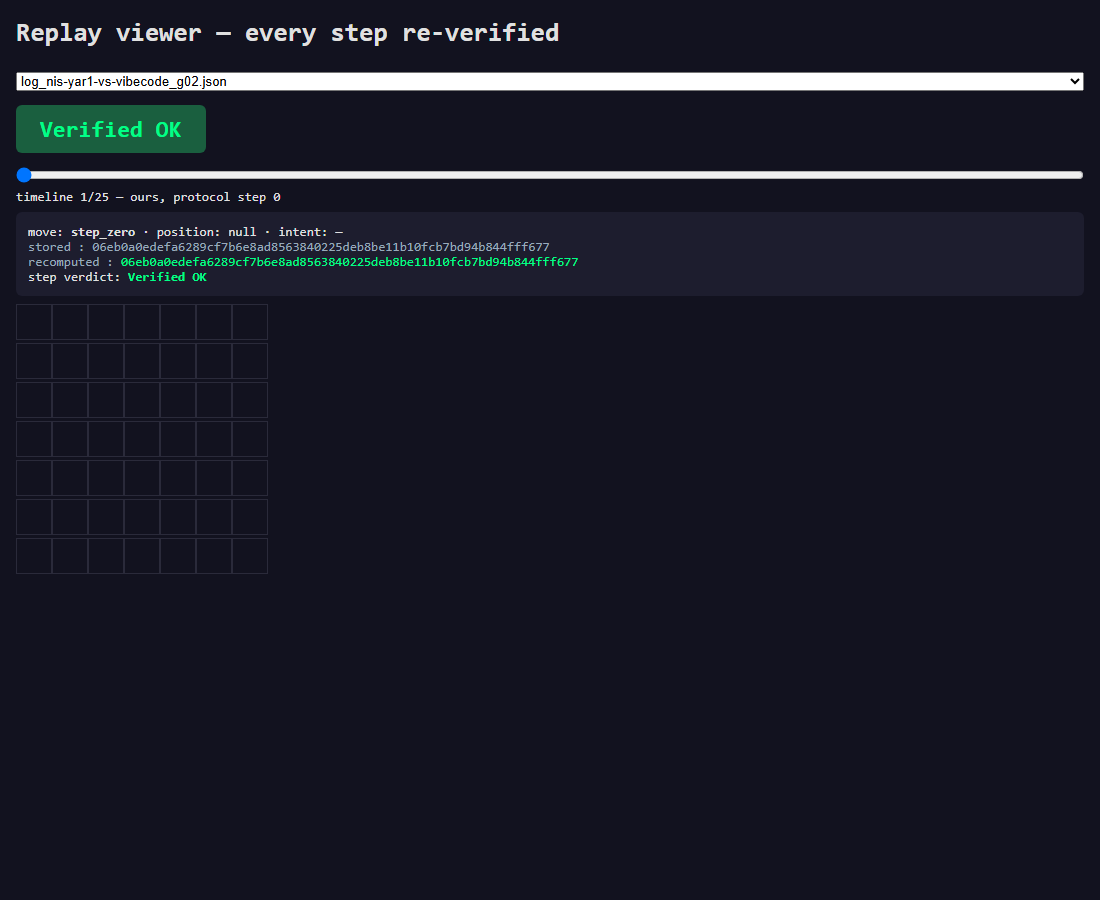
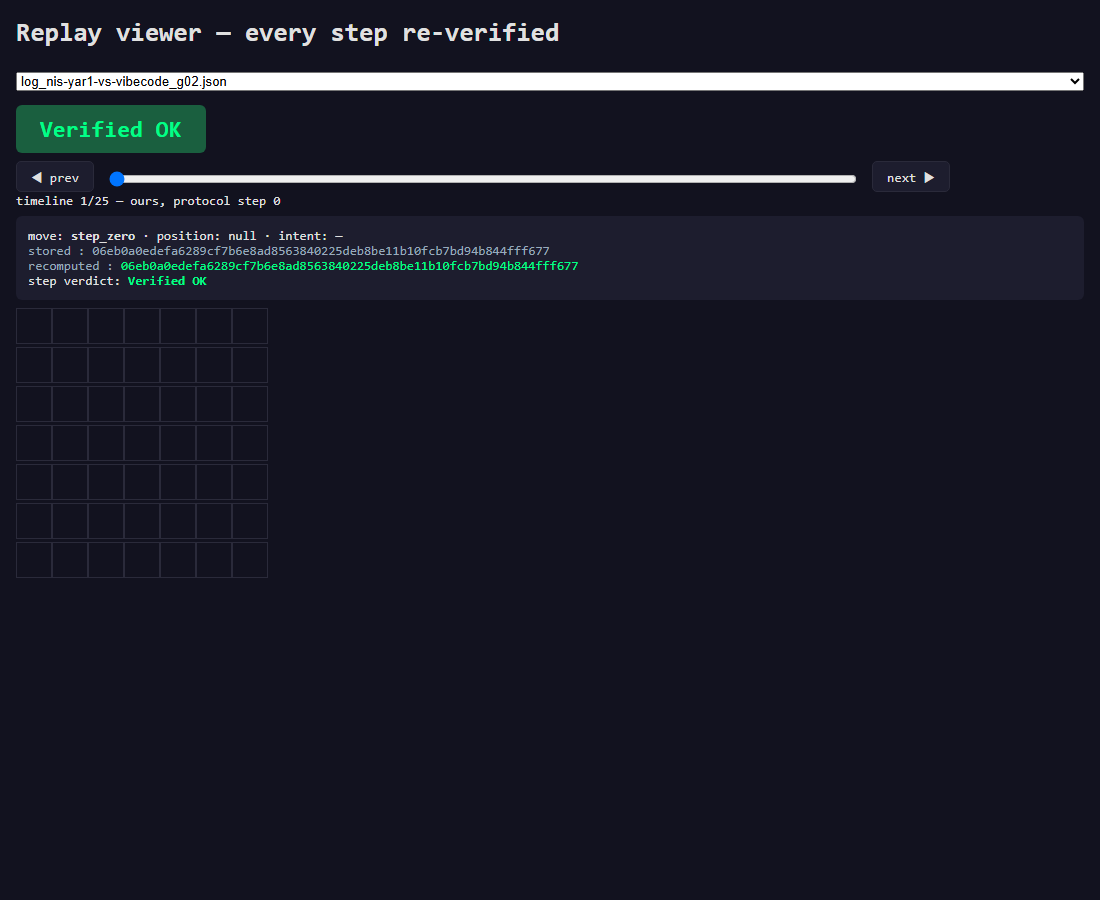
replay: prev/next arrows (buttons + ArrowLeft/ArrowRight) + behavioral GUI tests
User request: step the replay with arrows. The web page gains prev/next
buttons and keyboard ArrowLeft/ArrowRight handlers, both driving the same
bounds-clamped step() over the slider - the arrows can never leave the
timeline. The CLI stepper already had n/p/j.

Tests now cover behavior, not just markers:
- the CLI stepper's real loop (n/n/p/jump/quit) renders every visited position
  and clamps at both ends (no underflow past 1, no overflow past the last),
- the steps API's ordering guarantee on a real tracked gamelet log: per side,
  protocol steps are non-decreasing, so index i+1 IS the next sealed record -
  the invariant every arrow press depends on,
- the served /replay page carries the buttons, the key handlers and the clamp,
- dashboard routes: the three sidebar views, settings shape (read-only truth),
  category exhaustiveness.

Claude-Session: https://claude.ai/code/session_019rzA6zEEHyCDYcXW81wvQ9

Changed region(s): [[0.0, 0.1867, 0.9891, 0.3422]]

diff --git a/tests/test_gui_routes_and_stepping.py b/tests/test_gui_routes_and_stepping.py
@@ -1,0 +1,139 @@
+"""GUI behaves as shipped: routes serve, and replay steps forward/backward.
+
+The stepping contract is tested at three levels:
+- the CLI stepper's actual loop (n / p / j / q) against a synthetic log,
+- the steps API's ordering guarantee (timeline index == list order) on a REAL
+  tracked gamelet log, so a browser slider/arrow at index i+1 is always "the
+  next sealed record",
+- the web page's arrow wiring (buttons + ArrowLeft/ArrowRight handlers with a
+  bounds clamp), which is what the browser executes.
+"""
+
+from __future__ import annotations
+
+import io
+import json
+import sys
+from contextlib import redirect_stdout
+from pathlib import Path
+
+from fastapi.testclient import TestClient
+
+sys.path.insert(0, str(Path(__file__).resolve().parents[1] / "scripts"))
+
+from cop_worker.gui import app as live_gui  # noqa: E402
+from cop_worker.gui.dashboard import app as dashboard_app  # noqa: E402
+from cop_worker.protocol.reference_v3.hashing import reference_commit  # noqa: E402
+
+client = TestClient(dashboard_app)
+live_client = TestClient(live_gui.app)
+
+
+# --- dashboard routes -------------------------------------------------------
+
+
+def test_hub_serves_the_three_sidebar_views():
+    body = client.get("/").text
+    for marker in ("nav-status", "nav-history", "nav-settings", "view-settings"):
+        assert marker in body, marker
+
+
+def test_settings_endpoint_is_read_only_config_truth():
+    s = client.get("/api/hub/settings").json()
+    assert s["scent_model"] == "subtractive_chebyshev_v1"
+    assert s["move_policy"] == "hybrid_search"
+    assert "vibecode" not in s.get("profiles", []), "profiles are opponents, not us"
+
+
+def test_games_endpoint_categories_are_exhaustive():
+    for row in client.get("/api/hub/games").json():
+        assert row["category"] in {"counted", "friendly", "local"}
+
+
+# --- replay stepping: the API ordering the arrows depend on -----------------
+
+
+def _a_tracked_log() -> str:
+    results = Path(__file__).resolve().parents[1] / "results"
+    logs = sorted(p.name for p in results.glob("log_*_g*.json"))
+    assert logs, "repo tracks gamelet logs; none found"
+    return logs[0]
+
+
+def test_steps_api_order_is_the_timeline_the_arrows_walk():
+    d = live_client.get("/api/replay/steps", params={"log": _a_tracked_log()}).json()
+    steps = d["steps"]
+    assert len(steps) >= 3
+    # per side, protocol steps are non-decreasing: index i+1 is "the next record"
+    for side in ("ours", "opponent"):
+        seq = [s["step"] for s in steps if s["side"] == side]
+        assert seq == sorted(seq), f"{side} records are not in protocol order"
+    assert d["overall"] in ("Verified OK", "TAMPERED")
+
+
+def test_replay_page_has_arrow_buttons_and_key_handlers():
+    body = live_client.get("/replay").text
+    for marker in (
+        'id="prev"',
+        'id="next"',
+        "ArrowRight",
+        "ArrowLeft",
+        "Math.min(Math.max",  # the bounds clamp: arrows can never leave the timeline
+        'id="slider"',
+    ):
+        assert marker in body, marker
+
+
+# --- replay stepping: the CLI loop actually moves ---------------------------
+
+
+def _write_synthetic_log(tmp_path: Path) -> Path:
+    records = []
+    for step in (1, 2, 3):
+        payload = {
+            "step": step,
+            "role": "thief",
+            "sub_game": 1,
+            "position": [3, 3],
+            "move": "N",
+            "intent": "truth",
+        }
+        nonce = f"nonce{step:02d}"
+        records.append(
+            {"payload": payload, "nonce": nonce, "commit": reference_commit(payload, nonce)}
+        )
+    log = tmp_path / "log_synthetic_g01.json"
+    log.write_text(json.dumps({"records": records, "opponent_records": []}), encoding="utf-8")
+    return log
+
+
+def test_cli_stepper_moves_next_prev_jump(tmp_path, monkeypatch):
+    from replay_stepper import interactive
+
+    log = _write_synthetic_log(tmp_path)
+    keys = iter(["n", "n", "p", "j 1", "q"])
+    monkeypatch.setattr("builtins.input", lambda *_: next(keys))
+    out = io.StringIO()
+    with redirect_stdout(out):
+        code = interactive(str(log))
+    text = out.getvalue()
+    # forward, forward, back, jump: every position was rendered
+    for pos in ("timeline 1/3", "timeline 2/3", "timeline 3/3"):
+        assert pos in text, pos
+    assert text.count("timeline 2/3") >= 2, "prev must re-render position 2"
+    assert "final verdict: Verified OK" in text
+    assert code == 0
+
+
+def test_cli_stepper_clamps_at_both_ends(tmp_path, monkeypatch):
+    from replay_stepper import interactive
+
+    log = _write_synthetic_log(tmp_path)
+    keys = iter(["p", "n", "n", "n", "q"])  # p at start, n past the end
+    monkeypatch.setattr("builtins.input", lambda *_: next(keys))
+    out = io.StringIO()
+    with redirect_stdout(out):
+        interactive(str(log))
+    text = out.getvalue()
+    assert "timeline 0/3" not in text, "prev at the start must clamp, not underflow"
+    assert "timeline 4/3" not in text, "next at the end must clamp, not overflow"

diff --git a/cop_worker/gui/replay_page.py b/cop_worker/gui/replay_page.py
@@ -13,7 +13,10 @@ body{font-family:monospace;background:#12121f;color:#e0e0e0;margin:16px}
 #verdict{font-size:1.8em;font-weight:bold;padding:10px 24px;border-radius:6px;display:inline-block;margin:8px 0}
 .okv{background:#1a5f3f;color:#00ff88}
 .badv{background:#6d1a24;color:#ff5566}
-select,input[type=range]{width:100%;margin:6px 0}
+select{width:100%;margin:6px 0}
+input[type=range]{margin:6px 8px;vertical-align:middle}
+button{background:#1d1d2e;color:#e0e0e0;border:1px solid #2a2a3a;border-radius:5px;padding:6px 14px;font-family:monospace;cursor:pointer}
+button:hover{background:#25253a}
 #stepcard{background:#1d1d2e;border-radius:6px;padding:12px;margin-top:8px}
 .hash{word-break:break-all;color:#9ab}
 .match{color:#00ff88}.mismatch{color:#ff5566}
@@ -25,7 +28,11 @@ select,input[type=range]{width:100%;margin:6px 0}
 <h1>Replay viewer — every step re-verified</h1>
 <select id="logs"></select>
 <div id="verdict" class="badv">select a log</div>
-<input type="range" id="slider" min="0" max="0" value="0">
+<div>
+  <button id="prev" title="previous step (Left arrow)">&#9664; prev</button>
+  <input type="range" id="slider" min="0" max="0" value="0" style="width:70%">
+  <button id="next" title="next step (Right arrow)">next &#9654;</button>
+</div>
 <div id="poslabel"></div>
 <div id="stepcard">(no step)</div>
 <div id="board"></div>
@@ -48,6 +55,17 @@ async function loadLog(name){
   s.max=Math.max(steps.length-1,0);s.value=0;s.oninput=()=>show(+s.value);
   show(0);
 }
+function step(d){
+  const s=document.getElementById('slider');
+  const v=Math.min(Math.max((+s.value)+d,0),+s.max);
+  s.value=v;show(v);
+}
+document.getElementById('prev').onclick=()=>step(-1);
+document.getElementById('next').onclick=()=>step(1);
+document.addEventListener('keydown',e=>{
+  if(e.key==='ArrowRight'){step(1);e.preventDefault();}
+  if(e.key==='ArrowLeft'){step(-1);e.preventDefault();}
+});
 function show(i){
   if(!steps.length)return;const s=steps[i];const p=s.payload||{};
   document.getElementById('poslabel').textContent=
